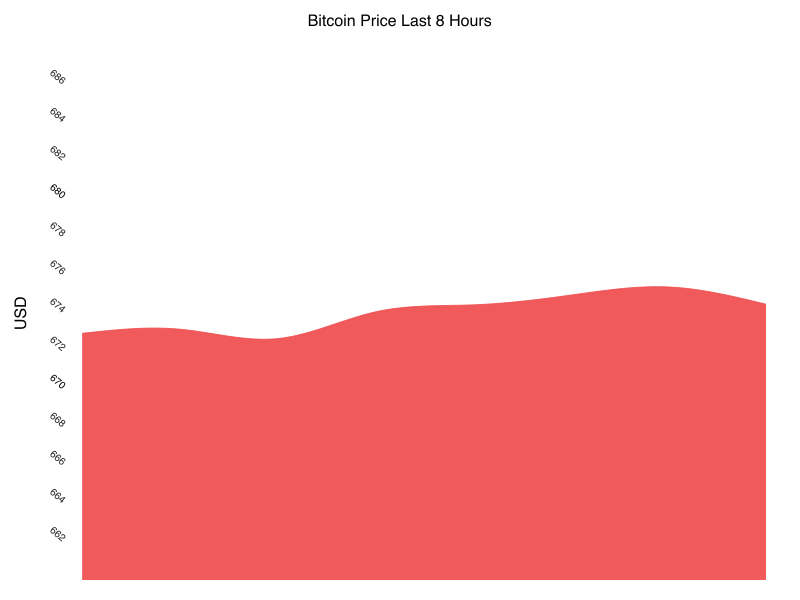
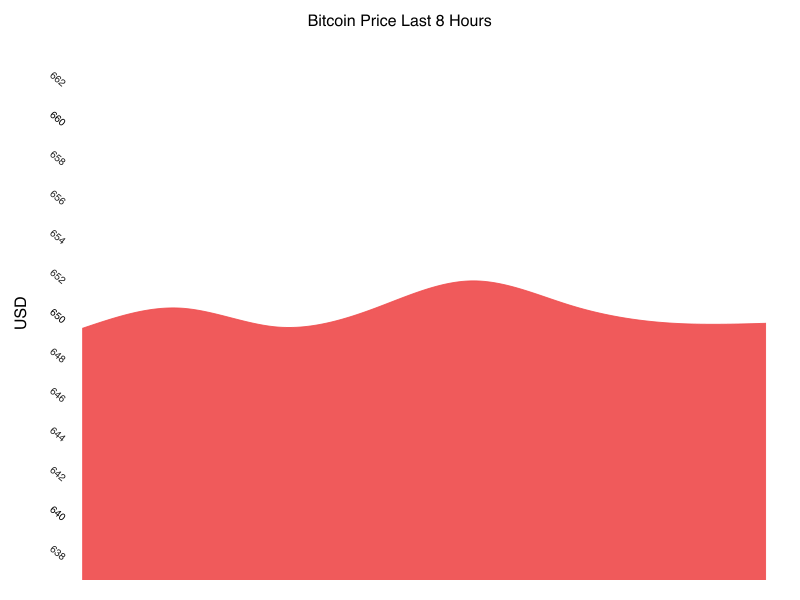
White and centered.

diff --git a/bot.py b/bot.py
@@ -66,8 +66,8 @@ if __name__ == "__main__":
 
         average_price = average_price / price_amounts
         custom_style = Style(
-            background='transparent',
-            plot_background='transparent',
+            background='white',
+            plot_background='white',
             opacity='.9',
             opacity_hover='.9',
             colors=('#EE494A','#EE494A')
@@ -102,7 +102,7 @@ if __name__ == "__main__":
         mbox = mimage.getbbox()
         lbox = limage.getbbox()
 
-        box = (mbox[2] - lbox[2] - lbox[2] - 20, mbox[1] - lbox[1] - lbox[1] + 30)
+        box = (mbox[2] - lbox[2] - lbox[2] - 38, mbox[1] - lbox[1] - lbox[1] + 30)
         mimage.paste(limage, box)
         mimage.save('output_logo.png')
         print 'Rendered'
@@ -120,6 +120,7 @@ if __name__ == "__main__":
         return sub["data"]["prices"]
 
     while True:
+        create_graph()
         pricing["first"] = get_coinbase()
         time.sleep(60*60*8) #Tweet every 60 minutes (5 for testing) 
         pricing["second"] = get_coinbase()
